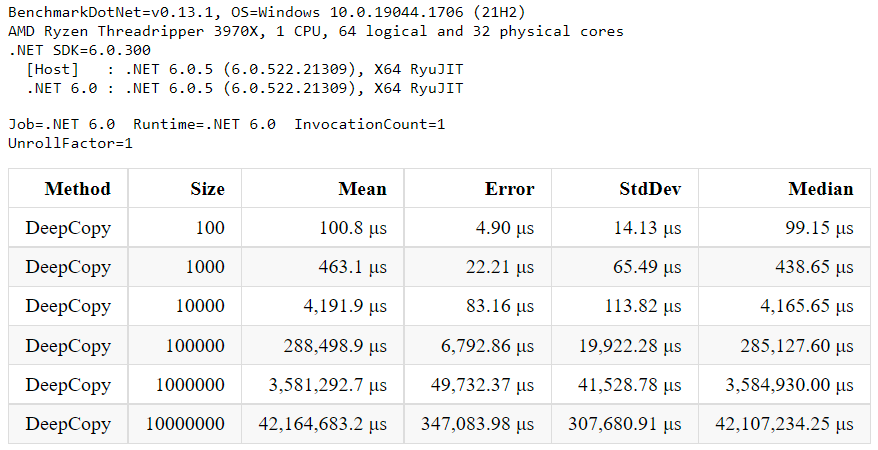
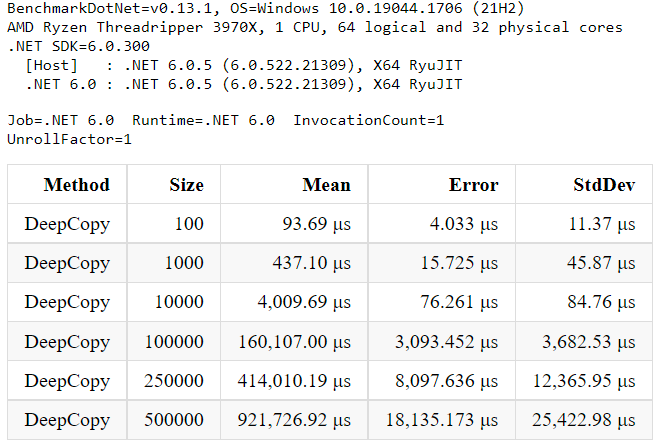
feat: add test results

diff --git a/ListSerializer/ListSerializerBenchmark/Program.cs b/ListSerializer/ListSerializerBenchmark/Program.cs
@@ -6,8 +6,8 @@ namespace ListSerializerBenchmark
     {
         static void Main(string[] args)
         {
-            //BenchmarkRunner.Run<ListSerializerJob>();
-            //BenchmarkRunner.Run<ListSerializerV2Job>();
+            BenchmarkRunner.Run<ListSerializerJob>();
+            BenchmarkRunner.Run<ListSerializerV2Job>();
             BenchmarkRunner.Run<ListSerializerV3Job>();
         }
     }

diff --git a/ListSerializer/ListSerializerBenchmark/ListSerializerJob.cs b/ListSerializer/ListSerializerBenchmark/ListSerializerJob.cs
@@ -8,7 +8,7 @@ namespace ListSerializerBenchmark
     [SimpleJob(RuntimeMoniker.Net60)]
     public class ListSerializerJob
     {
-        [Params(100, 1000, 10000, 100000, 1000000, 10000000)]
+        [Params(100, 1000, 10000, 100000, 250000, 500000)]
         public int Size;
 
         private ListNode _head;

diff --git a/ListSerializer/ListSerializerBenchmark/ListSerializerV3Job.cs b/ListSerializer/ListSerializerBenchmark/ListSerializerV3Job.cs
@@ -8,7 +8,7 @@ namespace ListSerializerBenchmark
     [SimpleJob(RuntimeMoniker.Net60)]
     public class ListSerializerV3Job
     {
-        [Params(100, 1000, 5000, 10000, 50000, 100000, 10000000)]
+        [Params(100, 1000, 10000, 100000)]
         public int Size;
 
         private ListNode _head;

diff --git a/ListSerializer/ListSerializerBenchmark/ListSerializerV2Job.cs b/ListSerializer/ListSerializerBenchmark/ListSerializerV2Job.cs
@@ -8,7 +8,7 @@ namespace ListSerializerBenchmark
     [SimpleJob(RuntimeMoniker.Net60)]
     public class ListSerializerV2Job
     {
-        [Params(100, 1000, 5000, 10000, 50000, 100000)]
+        [Params(100, 1000, 10000, 100000)]
         public int Size;
 
         private ListNode _head;

diff --git a/ListSerializer/Common/ListNodeInstanceHelper.cs b/ListSerializer/Common/ListNodeInstanceHelper.cs
@@ -23,7 +23,7 @@ namespace Common
             for (int i = 0; i < depth; i++)
             {
                 var next = new ListNode();
-                //if (i%2 >0)
+                if (i%2 >0)
                 {
                     next.Data = $"Node № {i + 1}";
                 }
